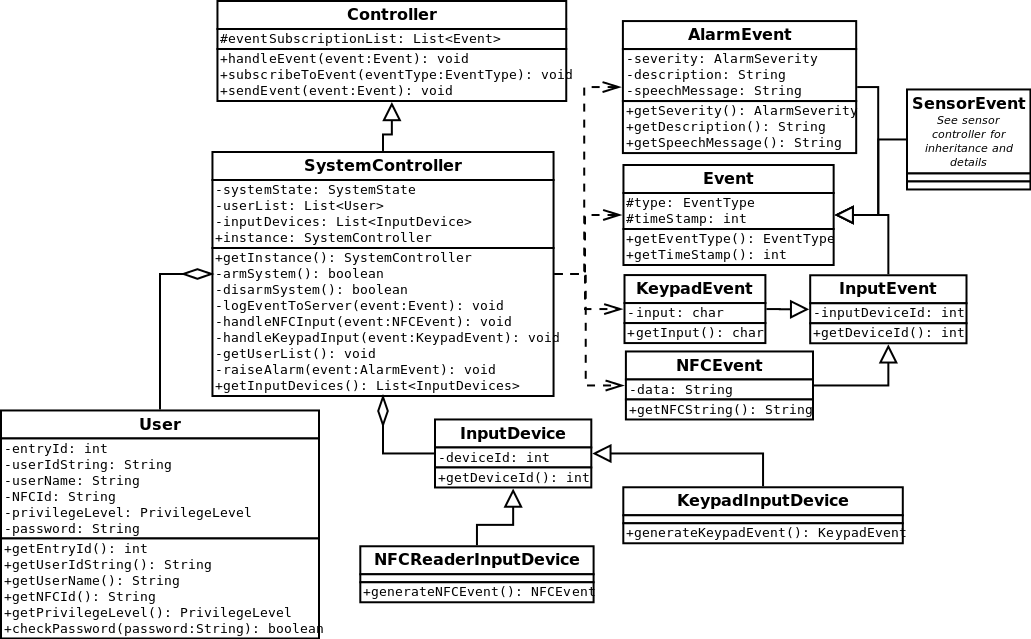
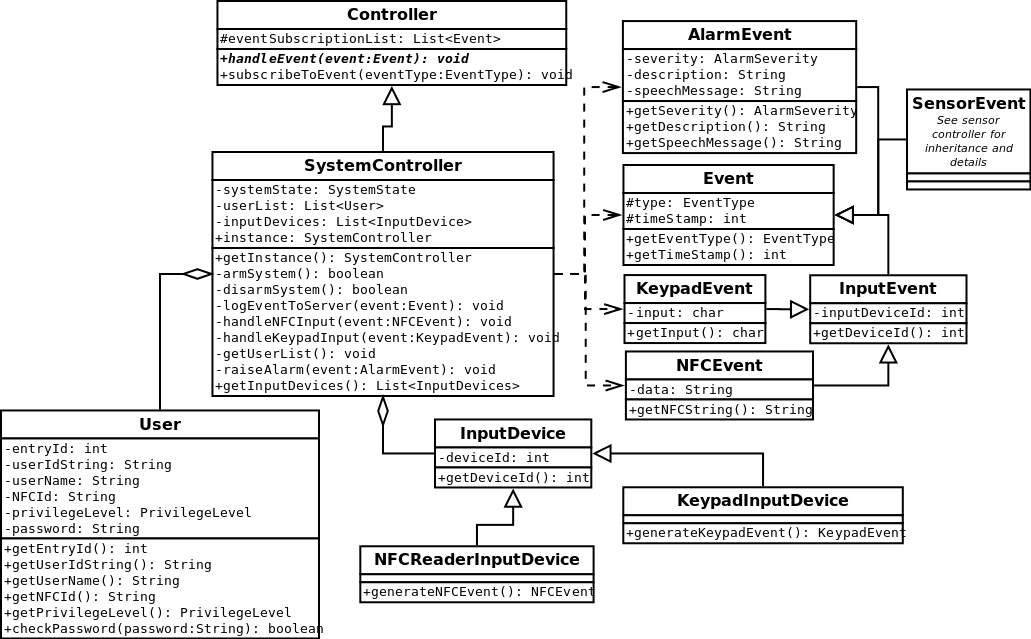
minor tweaks to class diagrams, started on blurb

Changed region(s): [[0.2173, 0.0892, 0.5587, 0.2081]]

diff --git a/sdd/sdd.tex b/sdd/sdd.tex
@@ -328,11 +328,23 @@ This reduces both compile-time and run-time dependency.
 % the system. Explain how they were applied to specifci components and the
 % rationale for them.
 
+% SINGLETONS MOTHERFUCKER
+
 \section{Algorithms}
 
 \section{Packages}
 
 \section{Object and Interface Design}
+A refined class level diagram has been provided for the majority of the
+subsystems. For each subsystem, a separate class diagram was generated to keep
+things simple and to avoid confusion due to hard to read diagrams. Some
+subsystems are provided with other systems due to overlap and to reduce the
+number of redundent diagrams.
+
+Each of the controllers are broken up into their own subsystem and are
+instantated as singletons. Each controller is derived from the same super class
+that provides the abstract method for handling events and creating the event
+subscription list.
 
 \begin{landscape} 
 \floatstyle{plain}
